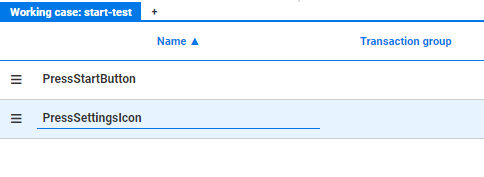
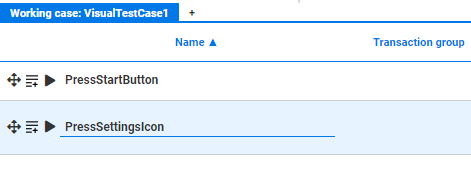
Update the screenshots in the Getting Started section and their references for 3.1.0.

diff --git a/getting_started/windows_settings.rst b/getting_started/windows_settings.rst
@@ -34,14 +34,14 @@ opening the Windows Settings app.
    Editor will load the :file:`start-test.alyvix` test case created in the previous example.
 
 #. We need to capture the screen once the Start menu has already opened, so change the delay
-   number in the :wbutton:`DELAY [SEC] 0 ADD` from ``0`` to something higher like ``5``, then click
-   on :bbutton:`ADD`:
+   number in :nobutton:`Delay [sec] 0` from ``0`` to something higher like ``5``, then click
+   on :wbutton:`ADD`:
 
    .. image:: images/as_delay_five_seconds.png
       :class: image-with-border
       :alt: Setting up the 5 second delay before capturing the screen
 
-#. Once you click :bbutton:`ADD`, you'll have 5 seconds to open the Windows Start Menu (you'll
+#. Once you click :wbutton:`ADD`, you'll have 5 seconds to open the Windows Start Menu (you'll
    need to click on the Start button yourself in that time) before Alyvix captures the screen.
 
 #. After the screen flashes white, press :kbd:`Escape` to return to screen capture mode, and then
@@ -68,8 +68,9 @@ opening the Windows Settings app.
       :class: image-with-border
       :alt: The settings button test case in Alyvix Selector
 
-#. Using its |bar-icon| icon, drag the new test case object into the Scripting panel
-   underneath the existing script element:
+#. Using its |4arrows-icon| icon seen above, drag the new test case object into the Scripting panel
+   underneath the existing script element (similarly, clicking the |lineadd-icon| icon will add it
+   to the end of the script):
 
    .. image:: images/ae_second_script_element.png
       :class: image-with-border
